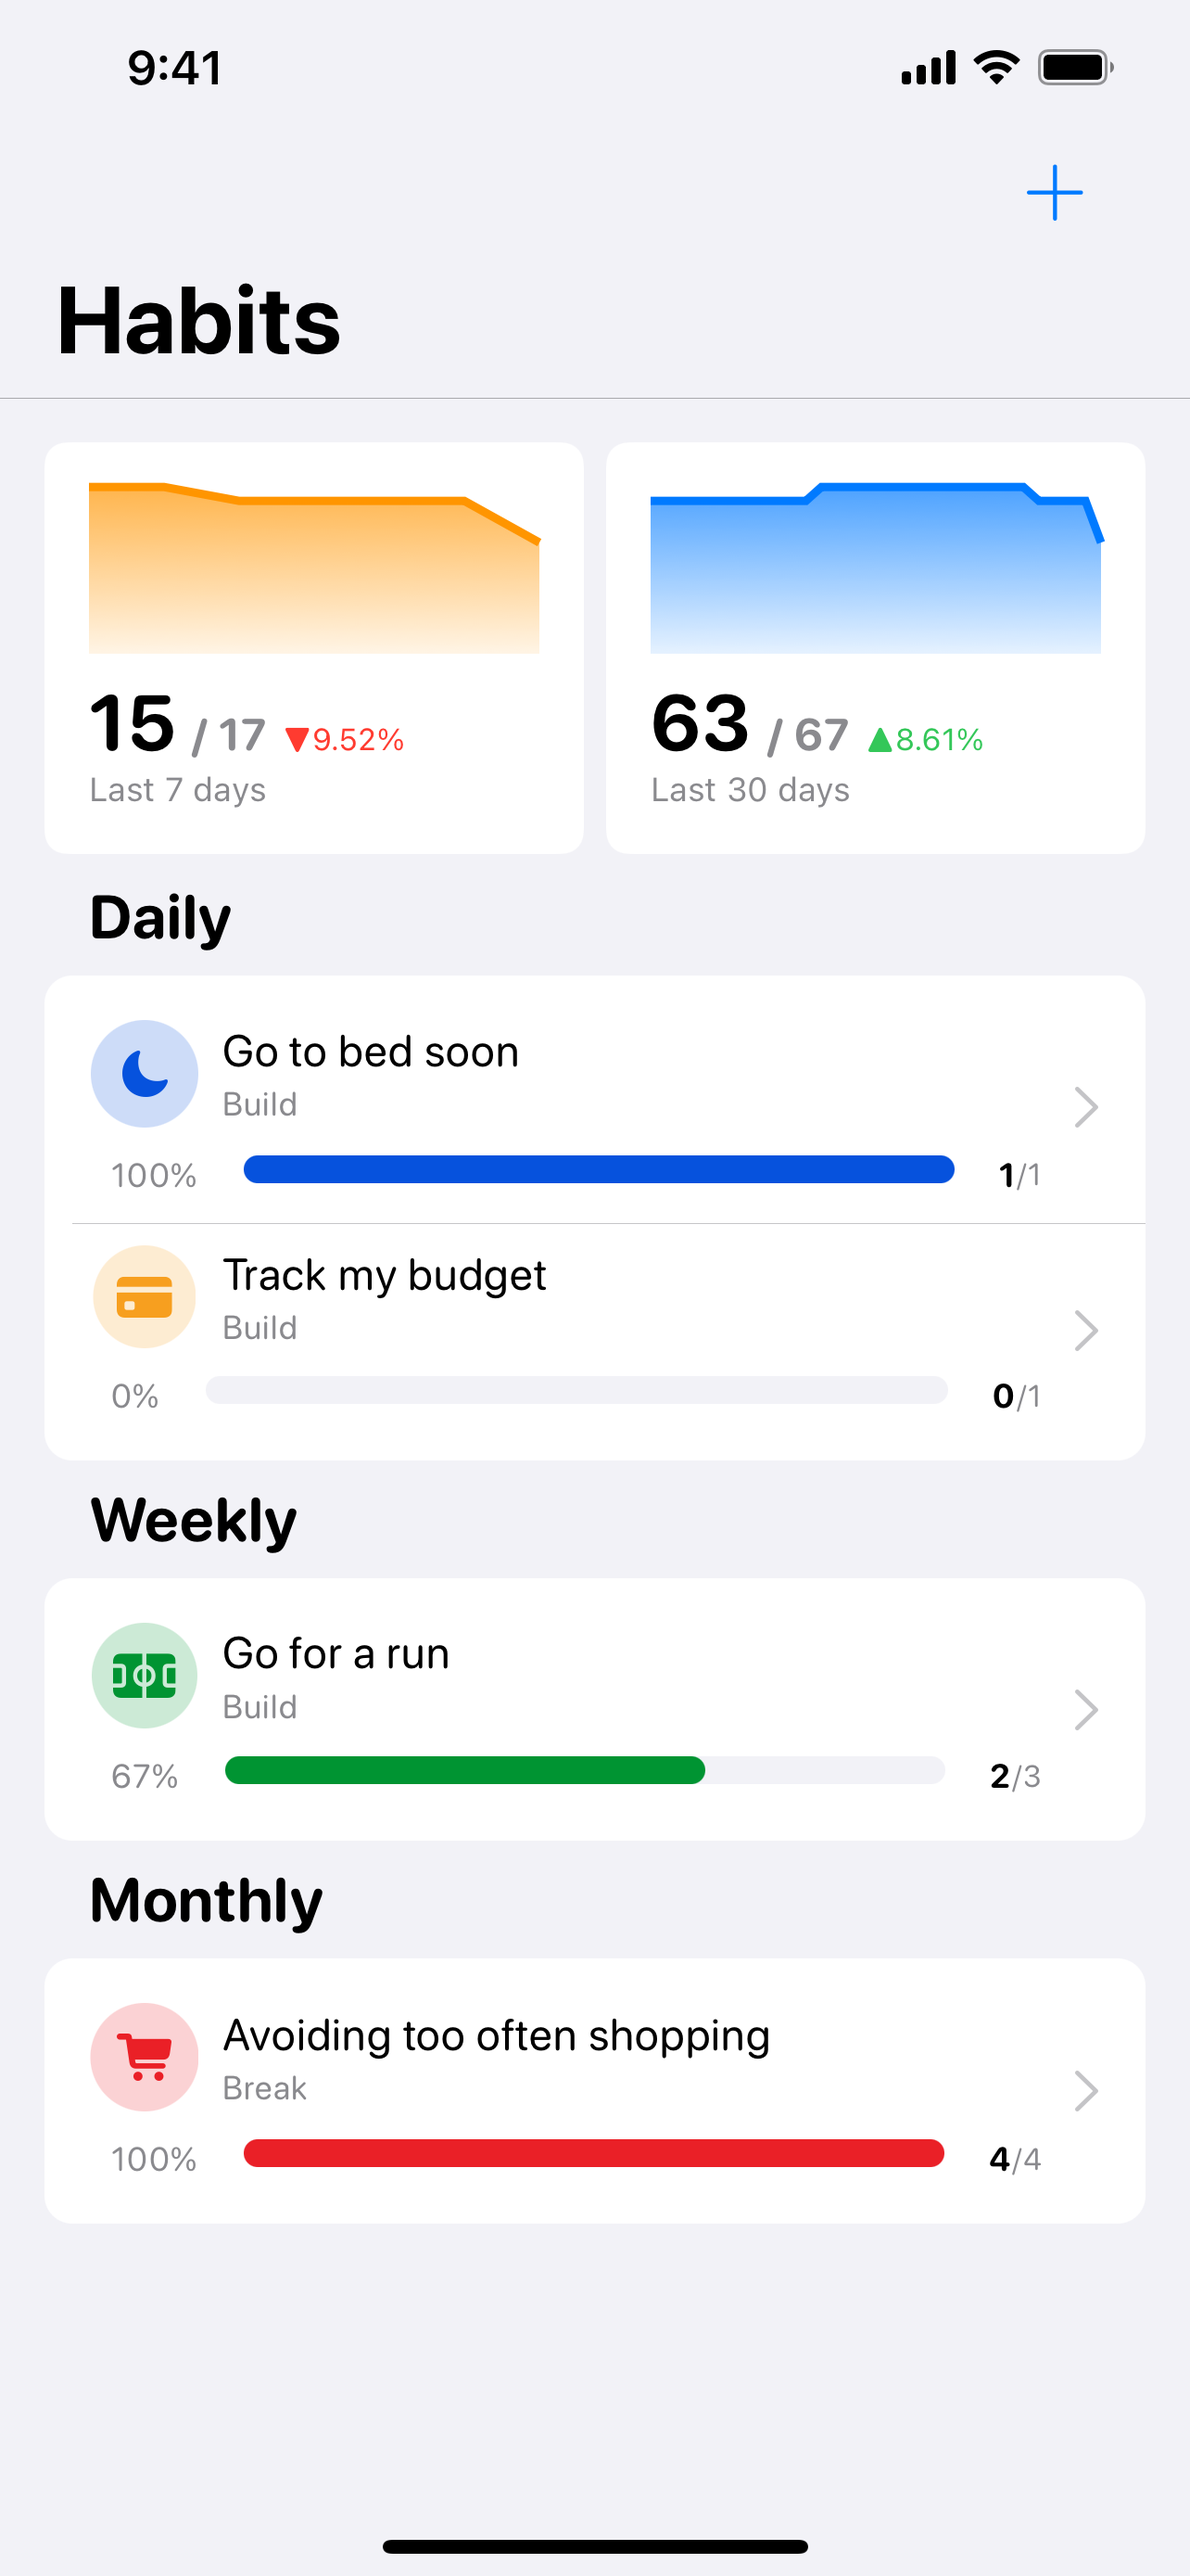
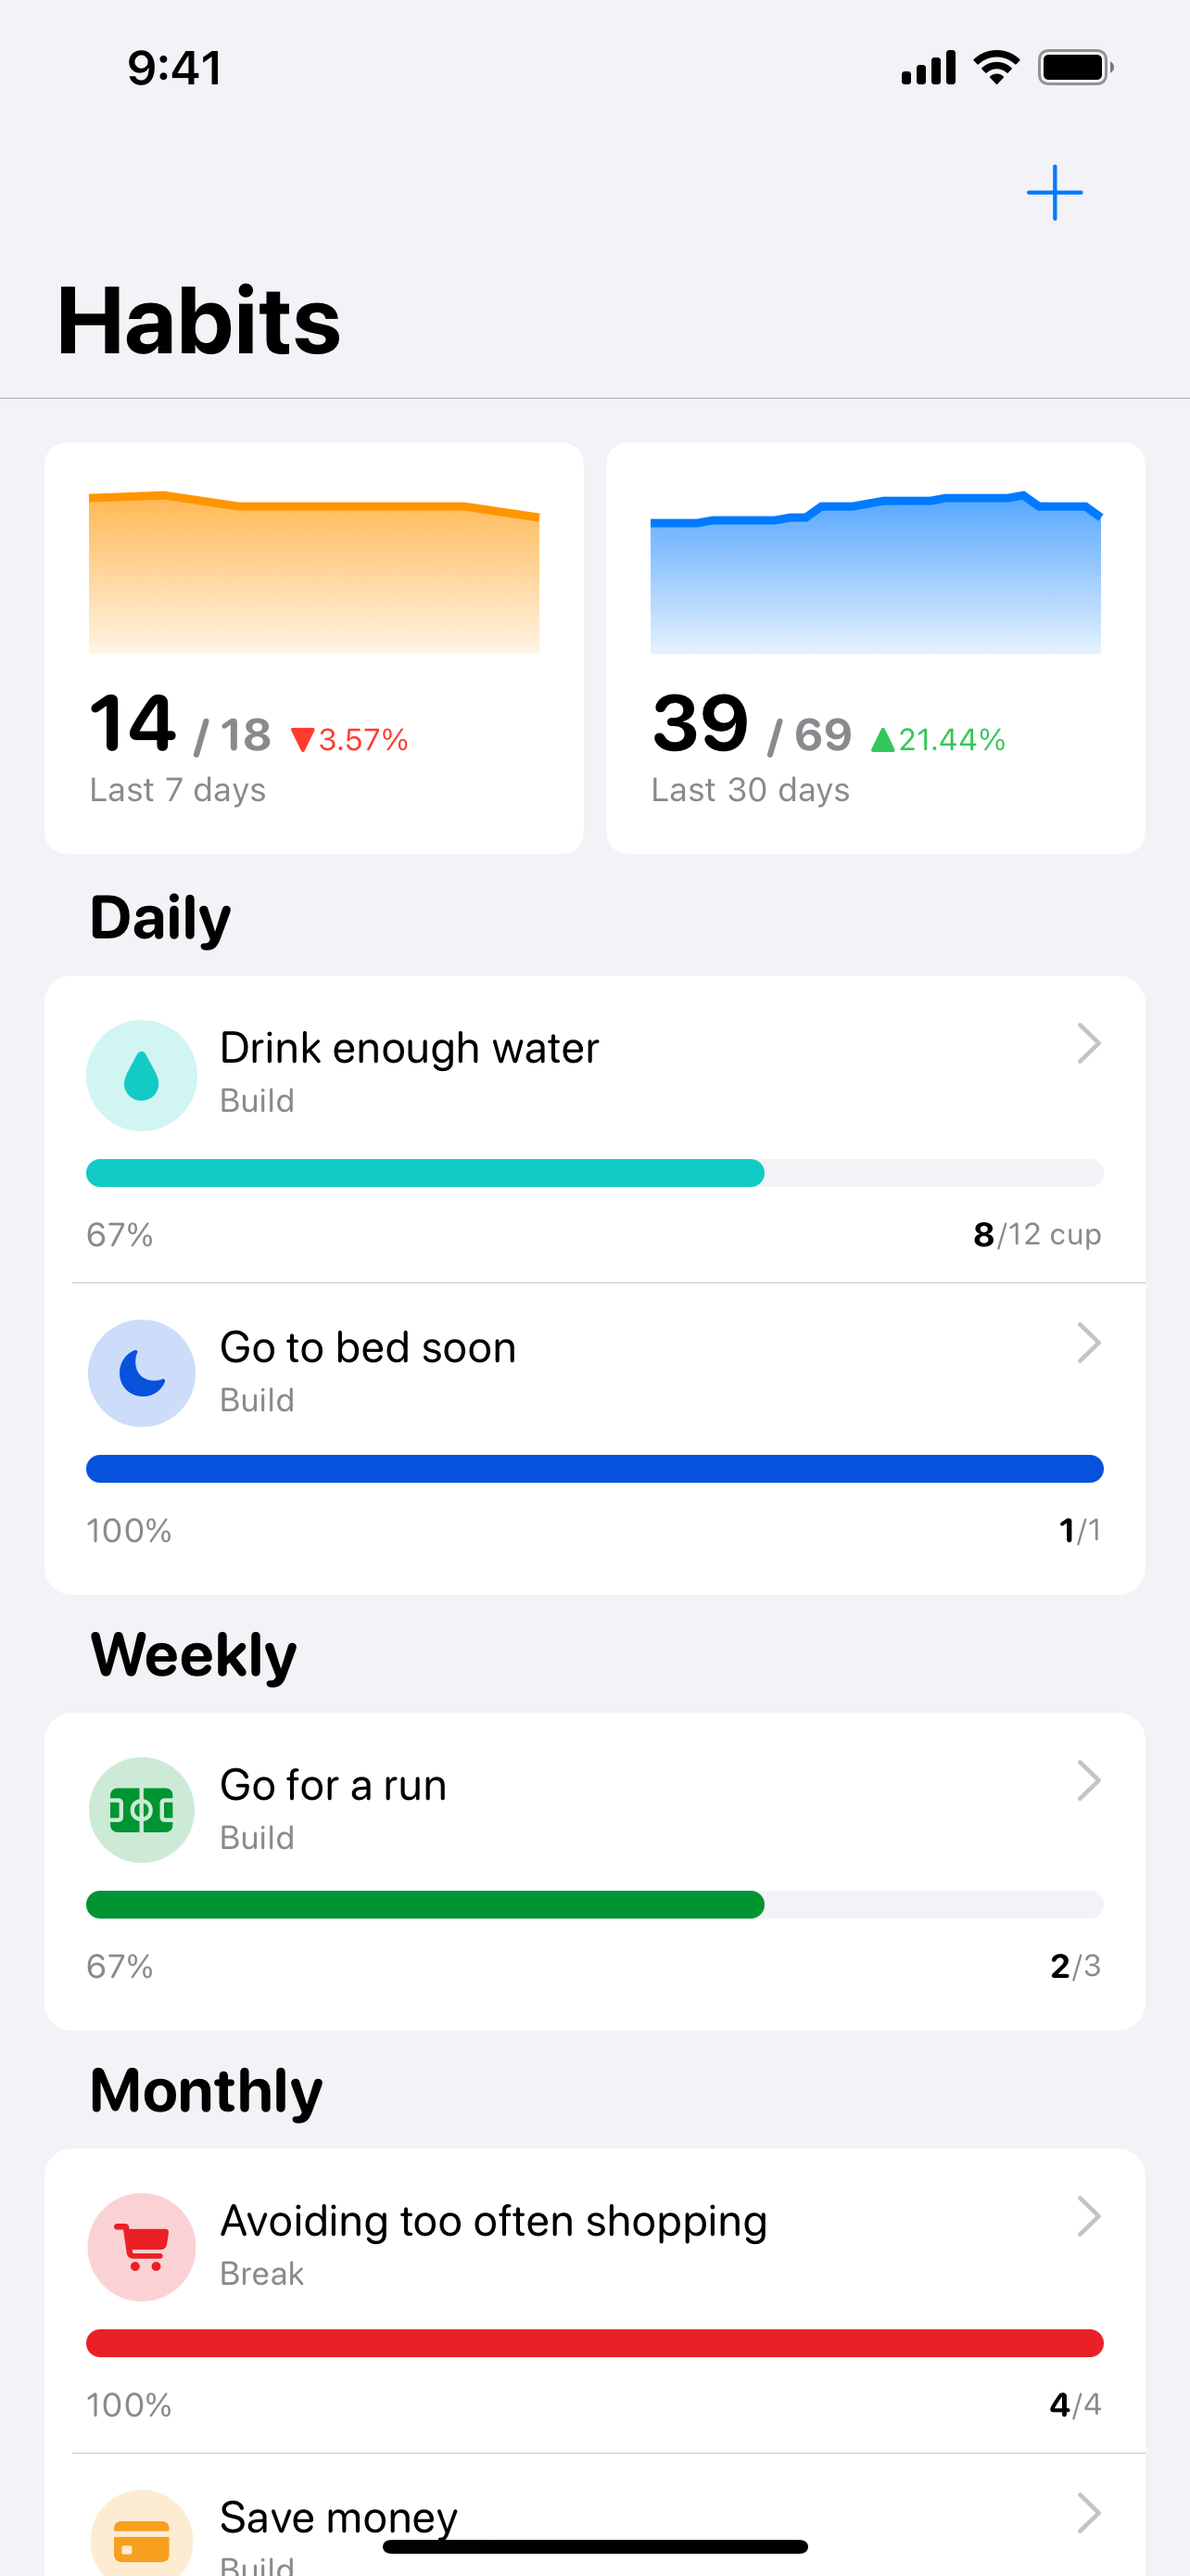
Pushed the latest Web to GitHub pages [skip ci]

diff --git a/_site/changelog/index.html b/_site/changelog/index.html
@@ -59,9 +59,16 @@
 
 <h2 id="unreleased">[unreleased]</h2>
 
-<h2 id="08202021">[08/20/2021]</h2>
+<h2 id="08272021">[08/27/2021]</h2>
 
 <h3 id="added">Added:</h3>
+<ul>
+  <li>You are able to specify unit for your Habit, e.g., cup, dollar, miles and so on</li>
+</ul>
+
+<h2 id="08202021">[08/20/2021]</h2>
+
+<h3 id="added-1">Added:</h3>
 <ul>
   <li>You are able to add note for Habit history item</li>
 </ul>
@@ -73,7 +80,7 @@
 
 <h2 id="08132021">[08/13/2021]</h2>
 
-<h3 id="added-1">Added:</h3>
+<h3 id="added-2">Added:</h3>
 <ul>
   <li>Animation of Habit progress and Habit graph</li>
   <li>Used same progress indicator in History List and History Detail</li>
@@ -86,7 +93,7 @@
 
 <h2 id="08062021">[08/06/2021]</h2>
 
-<h3 id="added-2">Added:</h3>
+<h3 id="added-3">Added:</h3>
 <ul>
   <li>Possibility to change history of completion for your Habit</li>
 </ul>
@@ -98,7 +105,7 @@
 
 <h2 id="07242021">[07/24/2021]</h2>
 
-<h3 id="added-3">Added:</h3>
+<h3 id="added-4">Added:</h3>
 <ul>
   <li>Basic functionality to track your Habits</li>
 </ul>

diff --git a/_pages/changelog.md b/_pages/changelog.md
@@ -8,6 +8,11 @@ include_in_header: true
 
 ## [unreleased]
 
+## [08/27/2021]
+
+### Added:
+- You are able to specify unit for your Habit, e.g., cup, dollar, miles and so on
+
 ## [08/20/2021]
 
 ### Added:
